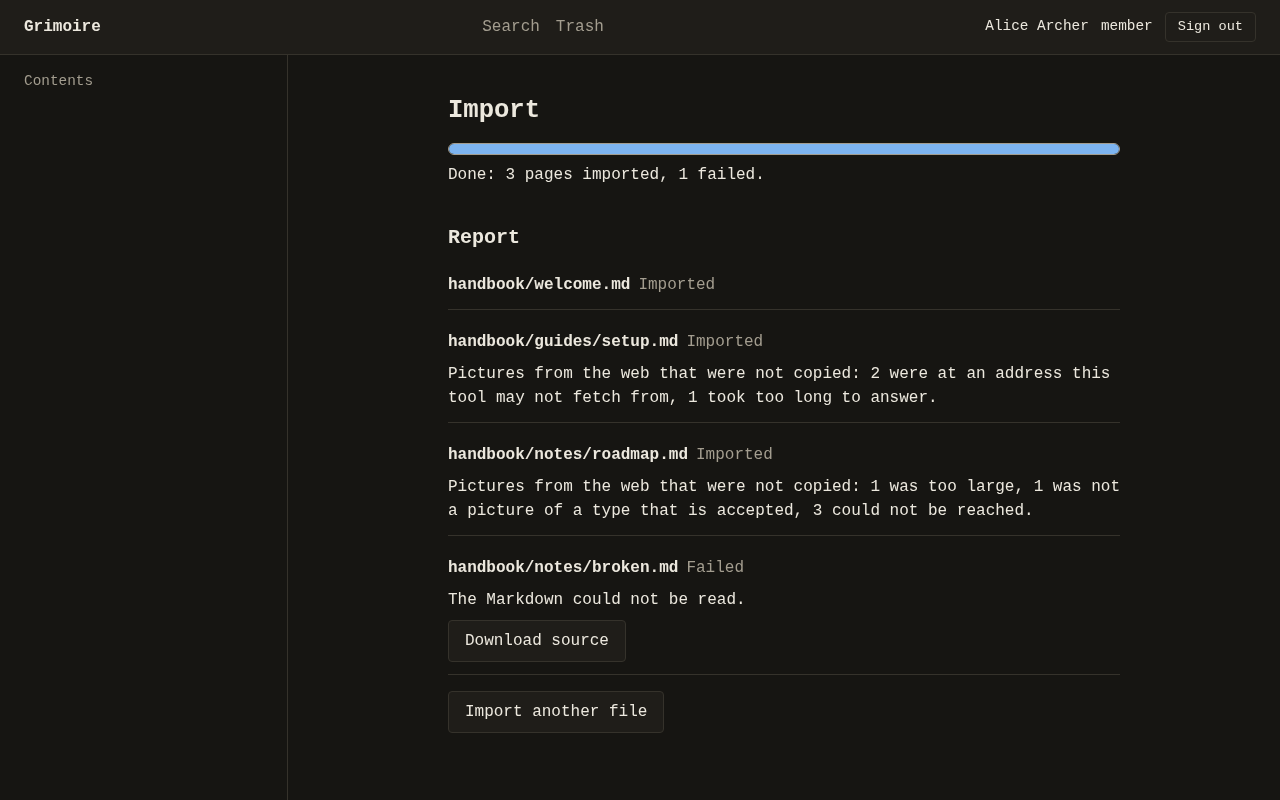
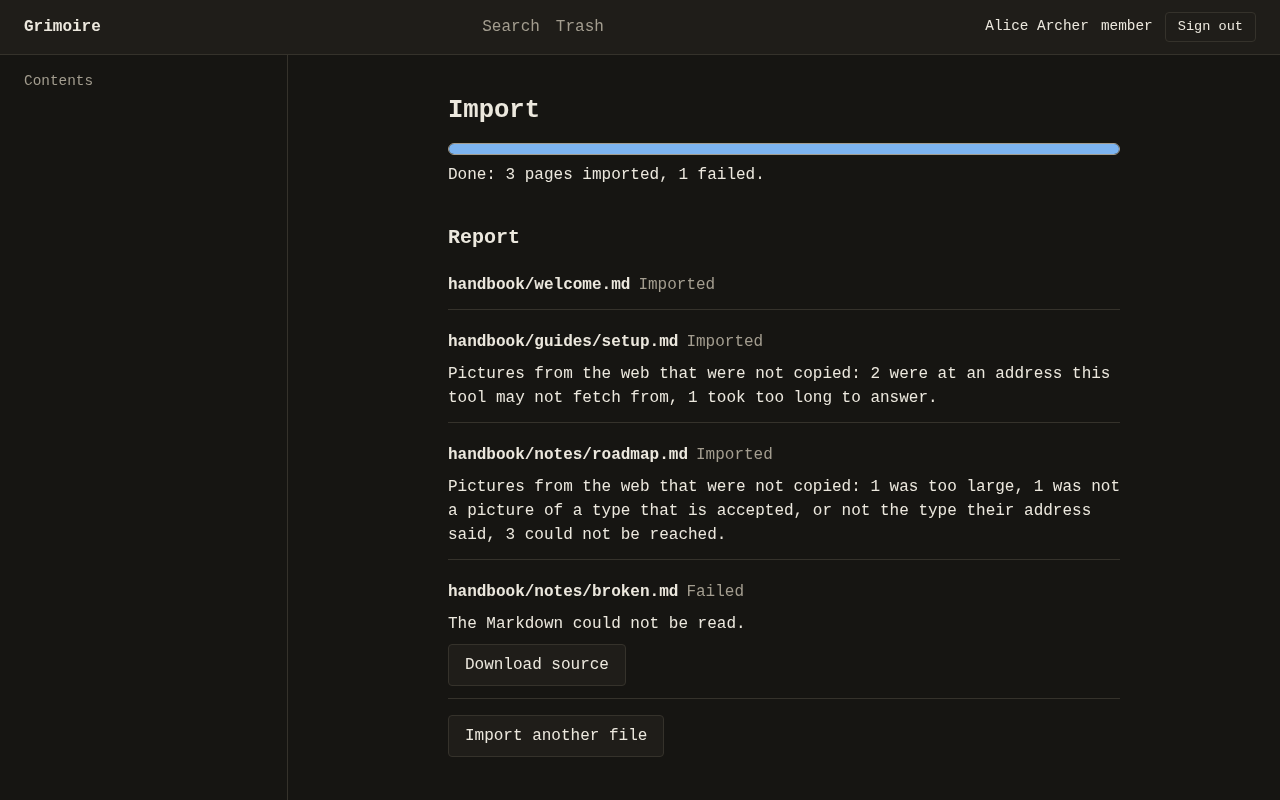
fix(web): the sentences for redirect, type, scheme and size_mismatch say what the server means by those codes

Changed region(s): [[0.3438, 0.6562, 0.5938, 0.8438], [0.375, 0.875, 0.5, 0.9375], [0.625, 0.625, 0.8438, 0.6562]]

diff --git a/apps/web/test/import/remote-image-text.test.ts b/apps/web/test/import/remote-image-text.test.ts
@@ -1,0 +1,32 @@
+import { describe, expect, it } from 'vitest';
+import { remoteImageText } from '../../src/screens/import/messages';
+
+// What each reason code says, one by one, against what the engine and the fetcher mean by it (apps/server/src/import/remote-images/index.ts, engine.ts, attachments.ts). A sentence that names a case the
+// code is never used for gives the person a false reason, so every code is pinned.
+const one = (code: string, n = 1) => remoteImageText({ [code]: n });
+const head = 'Pictures from the web that were not copied: ';
+
+describe('the sentence for a reason a picture from the web was not copied', () => {
+  it.each([
+    ['blocked_address', 1, '1 was at an address this tool may not fetch from'],
+    ['redirect', 2, '2 were redirected too many times, or in a circle'],
+    ['too_large', 1, '1 was too large'],
+    ['timeout', 3, '3 took too long to answer'],
+    ['status', 1, '1 could not be fetched: the address did not return the picture'],
+    ['type', 2, '2 were not a picture of a type that is accepted, or not the type their address said'],
+    ['budget', 1, '1 was left out because the import had reached its limit for pictures from the web'],
+    ['network', 4, '4 could not be reached'],
+    ['scheme', 2, '2 were at an address this tool does not accept (only https on the standard port, with no password in it)'],
+    ['not_fetched', 1, '1 was not fetched because fetching pictures from the web is switched off'],
+    ['empty', 1, '1 was empty'],
+    ['size_mismatch', 2, '2 could not be stored: a copy kept from an earlier attempt did not match'],
+  ])('%s', (code, n, words) => {
+    expect(one(code, n)).toBe(`${head}${words}.`);
+  });
+
+  it('has nothing to say for no failures, and drops what is not a reason code or a whole count', () => {
+    expect(remoteImageText(undefined)).toBeNull();
+    expect(remoteImageText({})).toBeNull();
+    expect(remoteImageText({ 'http://10.0.0.1/x.png': 2, timeout: 0, network: -1, empty: 1.5 })).toBeNull();
+  });
+});

diff --git a/apps/web/src/screens/import/messages.ts b/apps/web/src/screens/import/messages.ts
@@ -92,17 +92,17 @@ const was = (n: number): string => (n === 1 ? 'was' : 'were');
 /** What a reason code of a picture from the web that was not copied says, for `n` pictures. The order is the order of this table; a code it does not know comes last. */
 const IMAGE_WORDS: Readonly<Record<string, (n: number) => string>> = {
   blocked_address: (n) => `${String(n)} ${was(n)} at an address this tool may not fetch from`,
-  redirect: (n) => `${String(n)} ${was(n)} sent on to an address this tool may not fetch from`,
+  redirect: (n) => `${String(n)} ${was(n)} redirected too many times, or in a circle`,
   too_large: (n) => `${String(n)} ${was(n)} too large`,
   timeout: (n) => `${String(n)} took too long to answer`,
   status: (n) => `${String(n)} could not be fetched: the address did not return the picture`,
-  type: (n) => `${String(n)} ${was(n)} not a picture of a type that is accepted`,
+  type: (n) => `${String(n)} ${was(n)} not a picture of a type that is accepted, or not the type their address said`,
   budget: (n) => `${String(n)} ${was(n)} left out because the import had reached its limit for pictures from the web`,
   network: (n) => `${String(n)} could not be reached`,
-  scheme: (n) => `${String(n)} ${was(n)} at an address that is not secure (http)`,
+  scheme: (n) => `${String(n)} ${was(n)} at an address this tool does not accept (only https on the standard port, with no password in it)`,
   not_fetched: (n) => `${String(n)} ${was(n)} not fetched because fetching pictures from the web is switched off`,
   empty: (n) => `${String(n)} ${was(n)} empty`,
-  size_mismatch: (n) => `${String(n)} ${was(n)} not the size their address said`,
+  size_mismatch: (n) => `${String(n)} could not be stored: a copy kept from an earlier attempt did not match`,
 };
 /** A reason code is lower-case words with underscores; anything else (a key that could carry an address) is not a reason and is not shown. */
 const REASON_CODE = /^[a-z][a-z_]{0,31}$/;
